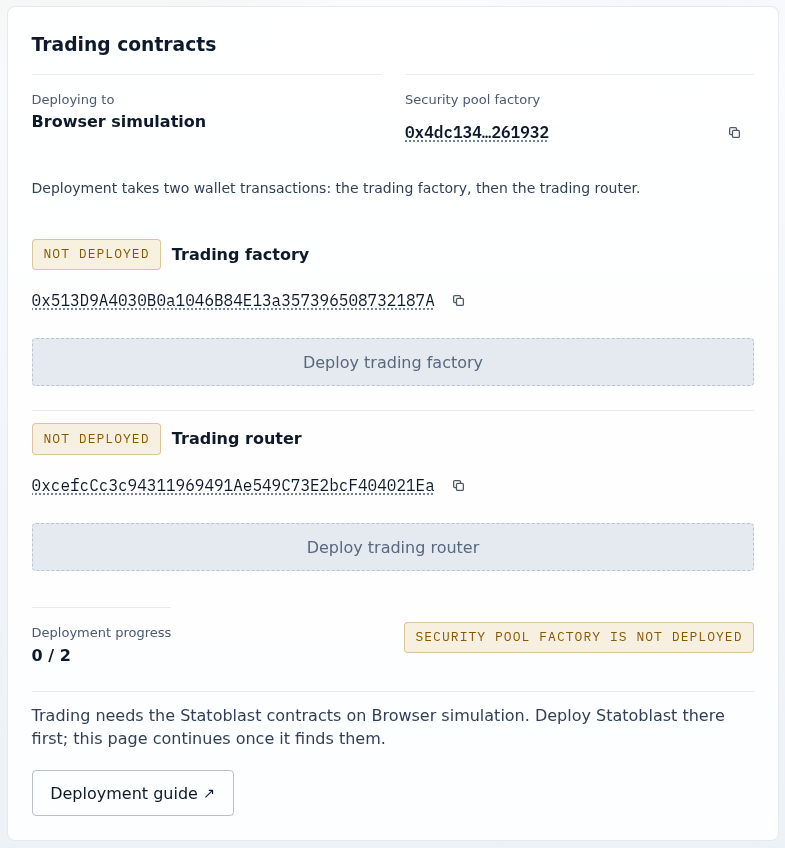
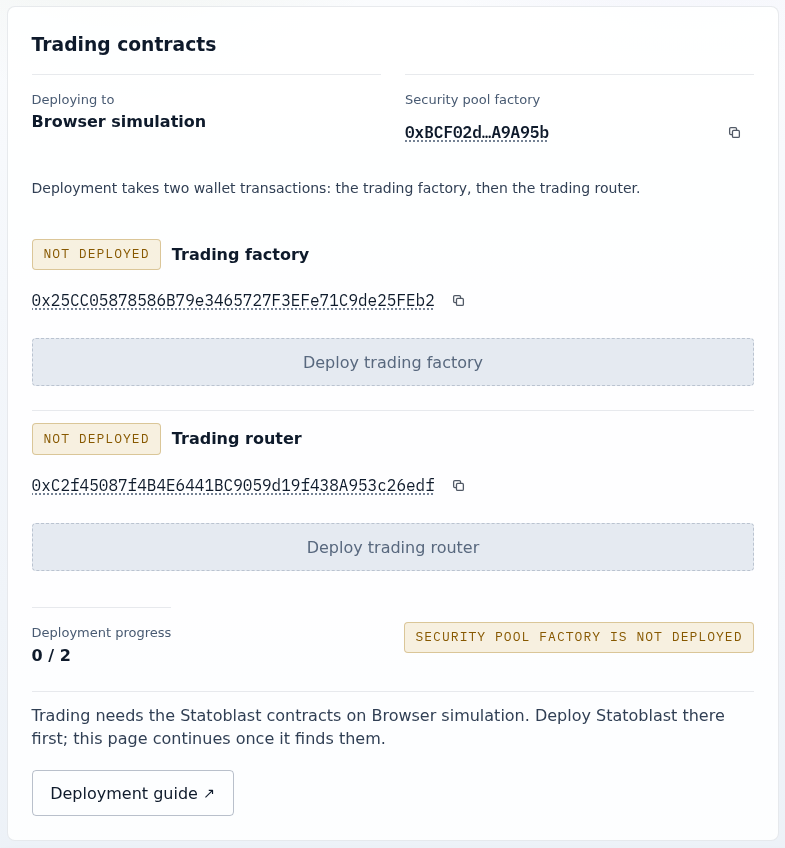
Refresh docs for updated simulated deployments

Changed region(s): [[0.0611, 0.5519, 0.5503, 0.5825], [0.0611, 0.3373, 0.5503, 0.3679], [0.5503, 0.1226, 0.7032, 0.184]]

diff --git a/docs/tutorials/trading-first-market.html b/docs/tutorials/trading-first-market.html
@@ -18,7 +18,7 @@
 			<section id="before-you-start">
 				<h2>Before you start</h2>
 				<p>Trading is an exchange for <a href="../explanation/statoblast.html">Statoblast</a> outcome shares: a trading pool swaps the Yes and No shares of exactly one question ledger, and a question ledger without one has no market yet. In the UI, creating the trading pool is called creating a <em>market</em>.</p>
-				<p>To practise without a wallet, run <code>bun run app:serve:trading</code> and open <code>http://localhost:4163/?simulate=1&amp;genesis=yes&amp;simScenario=deployed#/create-market</code>. That simulator scenario has one question ledger, at <code data-simulation-security-pool="address">0x1880Da9715c92B196C75955A91cC14DBE15c5041</code>, and no trading pool; the screenshots below come from it. For a live network, follow <a href="../how-to/trading-configure-ui.html">Configure the Trading UI</a>, and if the UI opens the deployment screen, complete <a href="../how-to/trading-deploy-contracts.html">Deploy the Trading contracts</a> first. Fund the wallet with the deposit plus gas.</p>
+				<p>To practise without a wallet, run <code>bun run app:serve:trading</code> and open <code>http://localhost:4163/?simulate=1&amp;genesis=yes&amp;simScenario=deployed#/create-market</code>. That simulator scenario has one question ledger, at <code data-simulation-security-pool="address">0x0232b0b1425FD9A1a481438519D7af843965c517</code>, and no trading pool; the screenshots below come from it. For a live network, follow <a href="../how-to/trading-configure-ui.html">Configure the Trading UI</a>, and if the UI opens the deployment screen, complete <a href="../how-to/trading-deploy-contracts.html">Deploy the Trading contracts</a> first. Fund the wallet with the deposit plus gas.</p>
 			</section>
 			<section id="find-pool">
 				<h2>Open a question without a market</h2>

diff --git a/docs/tutorials/trading-first-trade.html b/docs/tutorials/trading-first-trade.html
@@ -17,7 +17,7 @@
 			</header>
 			<section id="before-you-start">
 				<h2>Before you start</h2>
-				<p>Run <code>bun run app:serve:trading</code> and open <code data-simulation-security-pool="market-url">http://localhost:4163/?simulate=1&amp;genesis=yes#/market/0x1880Da9715c92B196C75955A91cC14DBE15c5041</code>. No wallet extension or live funds are needed. For a live network, see <a href="../how-to/trading-configure-ui.html">Configure the Trading UI</a>.</p>
+				<p>Run <code>bun run app:serve:trading</code> and open <code data-simulation-security-pool="market-url">http://localhost:4163/?simulate=1&amp;genesis=yes#/market/0x0232b0b1425FD9A1a481438519D7af843965c517</code>. No wallet extension or live funds are needed. For a live network, see <a href="../how-to/trading-configure-ui.html">Configure the Trading UI</a>.</p>
 			</section>
 			<section id="choose">
 				<h2>Check the market</h2>
